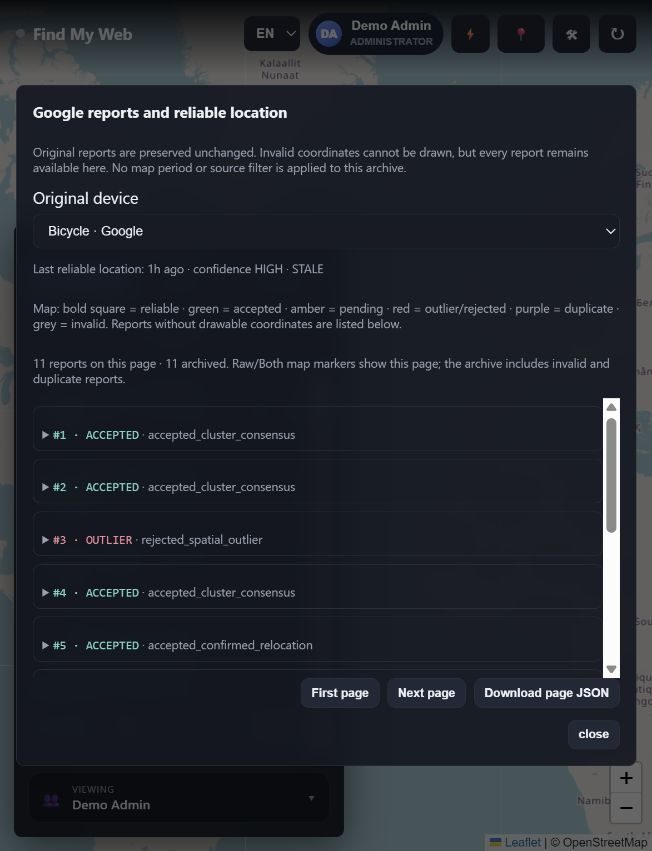
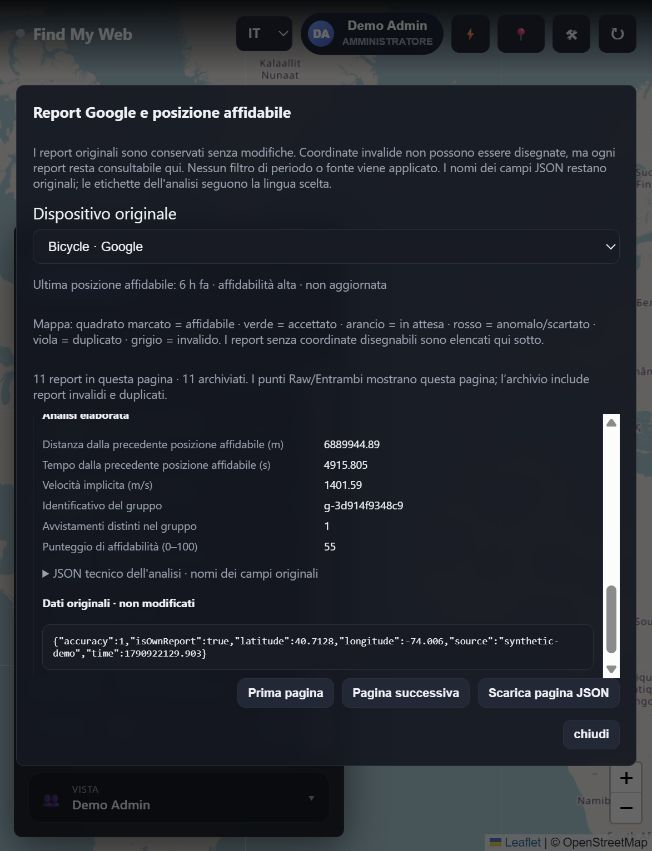
release: Google report UI fixes and aligned 1.1.17 catalog (#21)

diff --git a/docs/GOOGLE_RELIABLE_LOCATION.md b/docs/GOOGLE_RELIABLE_LOCATION.md
@@ -16,12 +16,14 @@ La sezione è inizialmente chiusa per lasciare spazio ai dispositivi.
 
 - Ottimizzati: usa i punti elaborati Google; Apple mantiene il comportamento
   precedente. Una posizione vecchia non viene rimpiazzata da un outlier recente.
-- Raw: apre l'archivio originale del dispositivo; sulla mappa vengono disegnati
+- Raw: sulla mappa vengono disegnati
   i report geograficamente validi della pagina selezionata.
 - Entrambi: sovrappone la pagina raw alla posizione/storia affidabile.
 
 **Report** apre sempre l'archivio, anche in modalità Ottimizzati. Seleziona un
-dispositivo originale, inclusi i membri di viste unificate. L'archivio non
+dispositivo originale, inclusi i membri di viste unificate e i dispositivi
+che conservano report Google dopo la rimozione della configurazione Google.
+La rimozione della configurazione non nasconde lo storico. L'archivio non
 applica filtri di periodo, fonte o plausibilità della mappa. La paginazione
 (200 report per pagina, Pagina successiva e download JSON) permette di
 consultare tutto senza caricare anni di dati sul cellulare. Raw/Both mostrano
@@ -33,6 +35,10 @@ Report semantici, nulli, senza coordinate, con accuracy/timestamp invalidi
 rimangono elencati anche se non sono disegnabili.
 
 Espandi un report per confrontare **RAW / GoogleFindMyTools** e **DERIVED**.
+Il selettore cambia solo la mappa; la finestra si apre con il pulsante **Report**.
+Stati, motivazioni e campi elaborati sono tradotti nella lingua scelta.
+Il JSON originale e quello tecnico dell'analisi conservano i nomi dei campi,
+per non alterare i dati e permettere il confronto con le API.
 Le annotazioni cambiano quando arrivano conferme; il payload originale no.
 Legenda mappa: quadrato marcato = affidabile; verde = accettato; arancio =
 pending; rosso = outlier/scartato; viola = duplicato; grigio = invalido.
@@ -149,8 +155,13 @@ cryptography, EID renewal or their raw /location contract.
 
 **Google data → Optimized / Raw / Both** selects the map presentation.
 Open **Google data · developer tools** at the bottom of the device panel.
+Changing the mode updates only the map; use **Reports** to open the archive.
+Statuses, reasons and derived-field labels follow the selected language.
+Original and technical-analysis JSON keep their original field names.
 This section is collapsed by default. **Reports** opens the complete, unfiltered original-device archive, including
-unified-view members. Pages contain 200 reports, with Next page and JSON download.
+unified-view members and devices whose Google configuration was removed but
+whose reports remain stored. Removing configuration does not hide the archive.
+Pages contain 200 reports, with Next page and JSON download.
 Raw/Both map markers show the selected archive page; unplottable reports remain
 in the list. Expand any report to compare RAW and DERIVED. Bold squares represent
 optimized locations; green accepted, amber pending, red outlier/rejected,

diff --git a/docs/RELEASE_1.1.17.md b/docs/RELEASE_1.1.17.md
@@ -1,0 +1,38 @@
+# Find My Hub 1.1.17
+
+## Italiano
+
+- Il selettore Dati Google cambia soltanto la vista, senza aprire automaticamente
+  Report. Stati, motivazioni, affidabilità e campi elaborati sono tradotti;
+  il JSON originale resta invariato. La traduzione cambia anche a finestra aperta.
+- Corretto l'accesso allo storico raw quando viene rimossa la configurazione
+  Google da un dispositivo: i report conservati restano selezionabili, anche
+  per i membri di una vista unificata, e vengono caricati nelle viste Raw/Entrambi.
+- Restano gli strumenti rapidi Google in fondo al pannello, inizialmente chiusi;
+  i parametri approfonditi sono nelle impostazioni del sito, solo per admin.
+- Confermate le funzioni della 1.1.16: archivio immutabile, posizione affidabile,
+  confidence/STALE, annotazioni, API e integrazioni MQTT/Traccar.
+
+Aggiorna i tre servizi a `1.1.17` o `latest` mantenendo i volumi.
+Non rigenerare chiavi e non riflashare i tracker. Il sorgente web resta privato;
+il catalogo e i package container già pubblici rimangono installabili.
+
+## English
+
+- Google data mode changes only the map, without opening Reports automatically.
+  Statuses, reasons, confidence and derived fields are localized, including
+  switching language while the dialog is open. Original JSON remains unchanged.
+- Fixed raw archive access after removing a device's Google configuration:
+  stored reports remain selectable, including unified-view members, and load
+  in Raw/Both map modes.
+- Quick Google tools remain collapsed at the bottom of the device panel;
+  detailed parameters live in the site's administrator-only settings.
+- Retains 1.1.16 reliable locations, immutable archives, confidence/STALE,
+  derived annotations, APIs and MQTT/Traccar integrations.
+
+Pull/recreate the three `1.1.17` or `latest` services while preserving volumes.
+No new keys or tracker reflash are needed. Web source remains private;
+the existing public catalog and container packages remain installable.
+
+See [raw and reliable location guide](GOOGLE_RELIABLE_LOCATION.md) and
+[1.1.16 feature notes](RELEASE_1.1.16.md).

diff --git a/README.md b/README.md
@@ -19,7 +19,7 @@ existing finding networks; it does not replace them or guarantee real-time GPS.
 [Guida illustrata italiana](docs/USER_GUIDE.it.md) ·
 [Complete feature gallery](docs/screenshots/README.md).
 
-## Current release: 1.1.16
+## Current release: 1.1.17
 
 Stable Google reliable locations above immutable raw reports, with clustering,
 consensus, anti-teleport candidates, confidence and STALE status. Choose Optimized,
@@ -146,9 +146,9 @@ that catalog's maintainers.
 One-click installation requires anonymous access to these multi-architecture
 images:
 
-- `ghcr.io/mattboxx/find-my-web:1.1.16`
-- `ghcr.io/mattboxx/find-my-apple-provider:1.1.16`
-- `ghcr.io/mattboxx/find-my-google-provider:1.1.16`
+- `ghcr.io/mattboxx/find-my-web:1.1.17`
+- `ghcr.io/mattboxx/find-my-apple-provider:1.1.17`
+- `ghcr.io/mattboxx/find-my-google-provider:1.1.17`
 
 All three images are public and expose `linux/amd64` and `linux/arm64`
 manifests. The CI validates every JSON and Compose manifest, builds the ZimaOS

diff --git a/docs/USER_GUIDE.en.md b/docs/USER_GUIDE.en.md
@@ -305,7 +305,7 @@ For defaults, algorithm limits, API pagination and migration details, read
 ## 13. Update safely and troubleshoot by layer
 
 Use the store update or pull the versioned Compose images and recreate services,
-keeping existing data volumes. `1.1.16` is reproducible; `latest` follows the
+keeping existing data volumes. `1.1.17` is reproducible; `latest` follows the
 latest released image. The store version, image tags and every architecture
 manifest must agree. Do not reinstall/delete data simply because a store has an
 outdated cache. Take backups before changing your installation.

diff --git a/docs/USER_GUIDE.it.md b/docs/USER_GUIDE.it.md
@@ -303,7 +303,7 @@ Per valori predefiniti, limiti, paginazione API e migrazione, leggi
 ## 13. Aggiornamenti e diagnosi
 
 Aggiorna dallo store oppure scarica le immagini Compose versionate e ricrea i
-servizi mantenendo i volumi. `1.1.16` è riproducibile; `latest` segue l'ultima
+servizi mantenendo i volumi. `1.1.17` è riproducibile; `latest` segue l'ultima
 release. Versione store, tag immagini e manifest delle architetture devono
 coincidere. Non reinstallare/cancellare i dati per una cache dello store obsoleta.
 Esegui backup prima di modificare l'installazione.

diff --git a/docs/screenshots/README.md b/docs/screenshots/README.md
@@ -1,6 +1,6 @@
 # Feature gallery / Galleria delle funzioni
 
-Captured from Find My Hub 1.1.15 and the 1.1.16 feature preview in isolated Docker environments with synthetic
+Captured from Find My Hub 1.1.15 and the 1.1.16/1.1.17 feature previews in isolated Docker environments with synthetic
 devices, accounts, identities and locations. No real credentials or personal
 tracking data were used. Provider services in this demo are unconfigured;
 screenshots document controls, not a claim of live Apple/Google connectivity.
